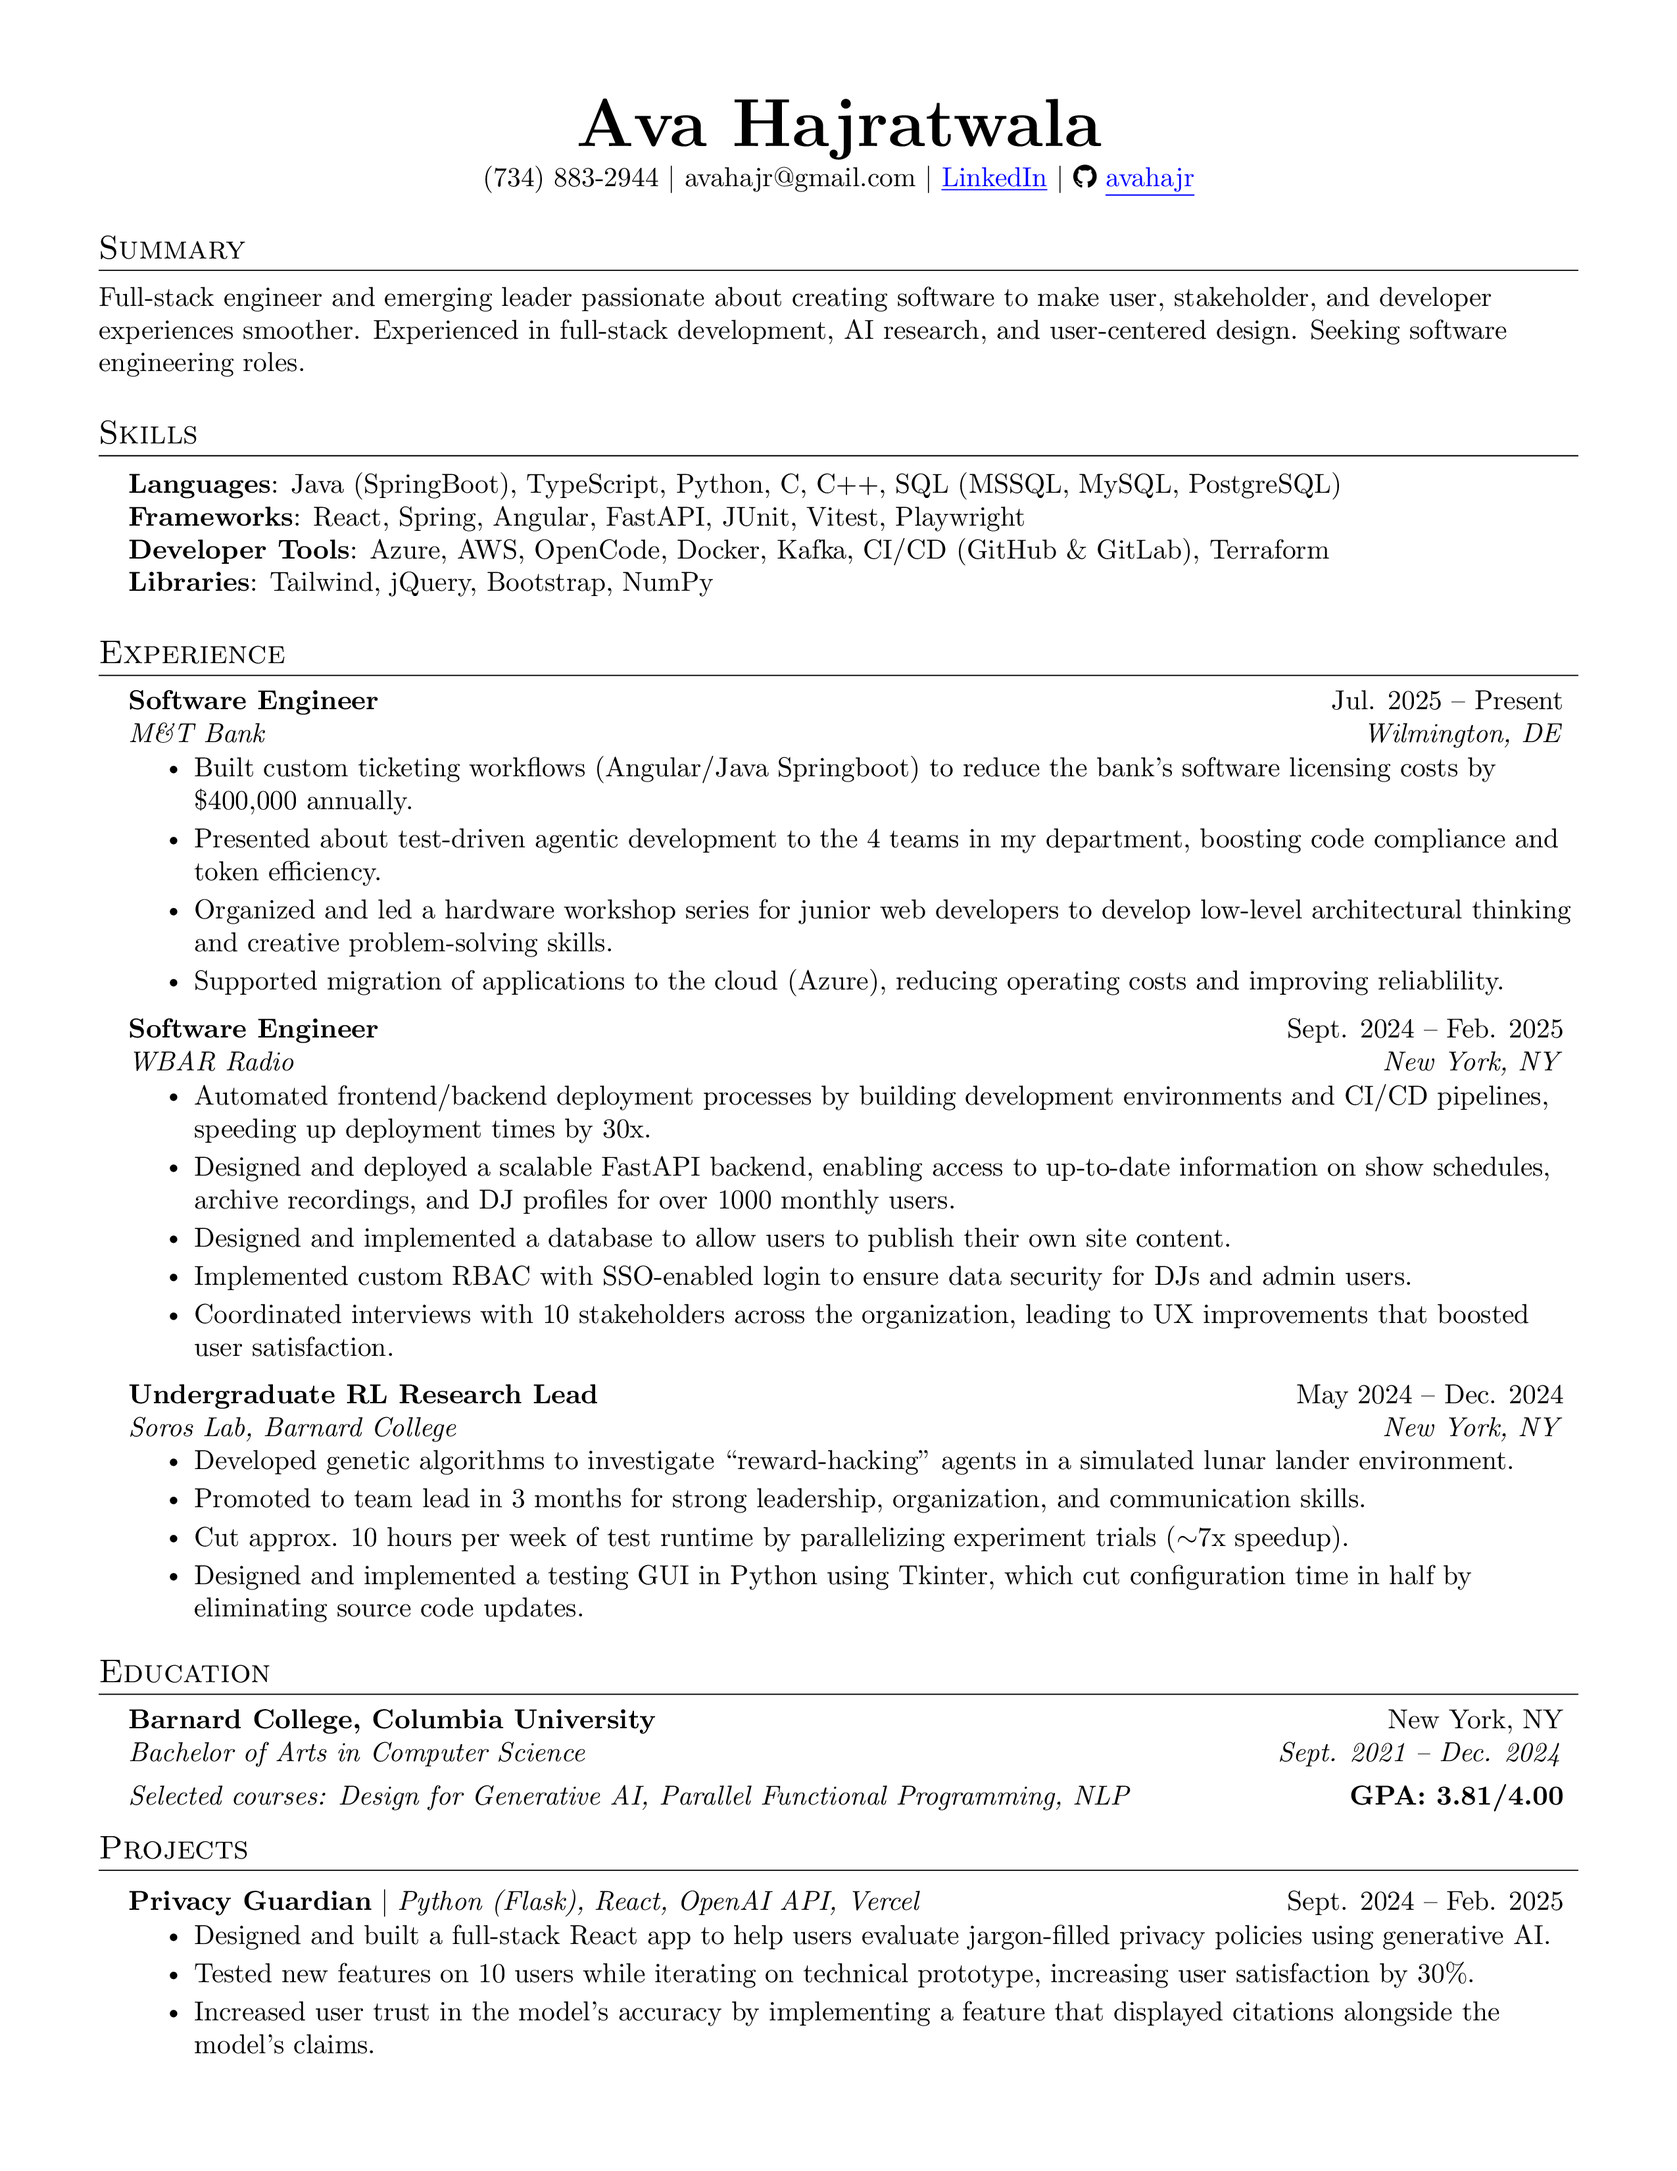
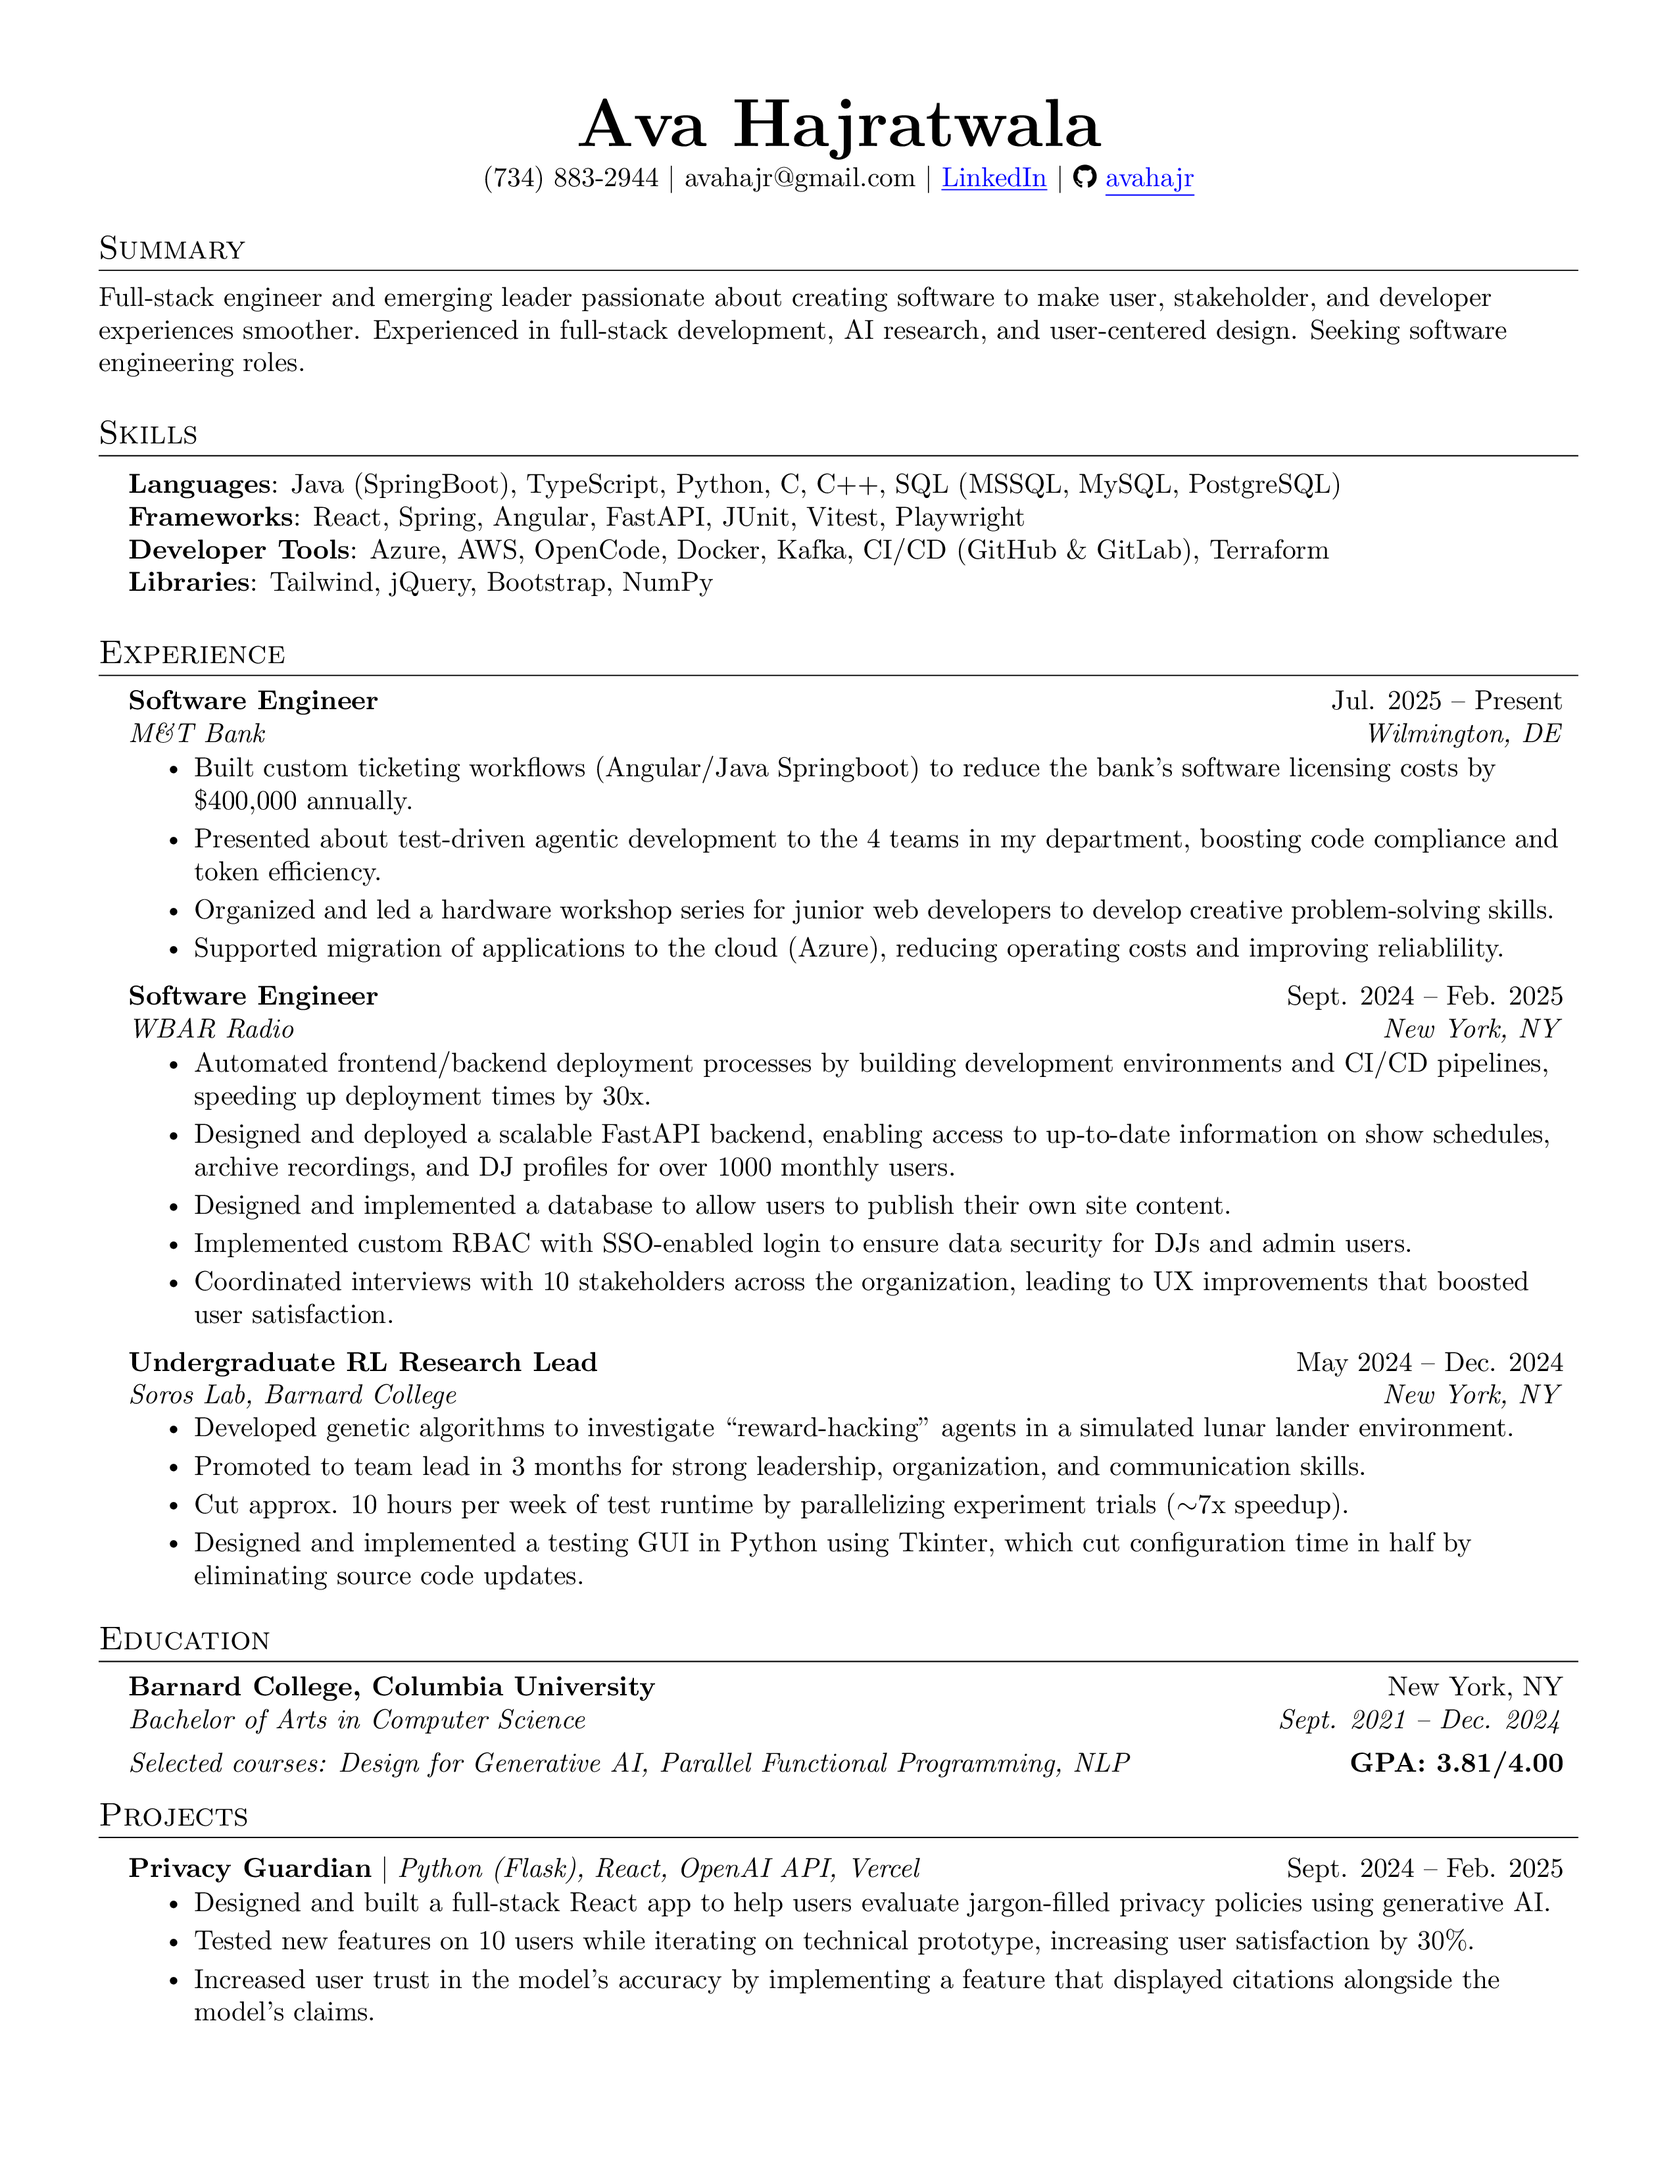
update workshop

Changed region(s): [[0.062, 0.4058, 0.9294, 0.9364], [0.5576, 0.8115, 0.6506, 0.8427]]

diff --git a/resume.tex b/resume.tex
@@ -160,7 +160,7 @@
 \resumeItemListStart
 \resumeItem{Built custom ticketing workflows (Angular/Java Springboot) to reduce the bank's software licensing costs by ~\$400,000 annually.}
 \resumeItem{Presented about test-driven agentic development to the 4 teams in my department, boosting code compliance and token efficiency.}
-\resumeItem{Organized and led a hardware workshop series for junior web developers to develop low-level architectural thinking and creative problem-solving skills.}
+\resumeItem{Organized and led a hardware workshop series for junior web developers to develop creative problem-solving skills.}
 \resumeItem{Supported migration of applications to the cloud (Azure), reducing operating costs and improving reliablility.}
 \resumeItemListEnd
 

diff --git a/README.md b/README.md
@@ -1,4 +1,4 @@
 # Ava's resume
-Last updated: 2026-10-04 at 15:17:59
+Last updated: 2026-10-04 at 15:27:58
 ![Resume](./Ava_Hajratwala_resume_2026-10-04.png)
 [PDF Here](./Ava_Hajratwala_resume_2026-10-04.pdf)
